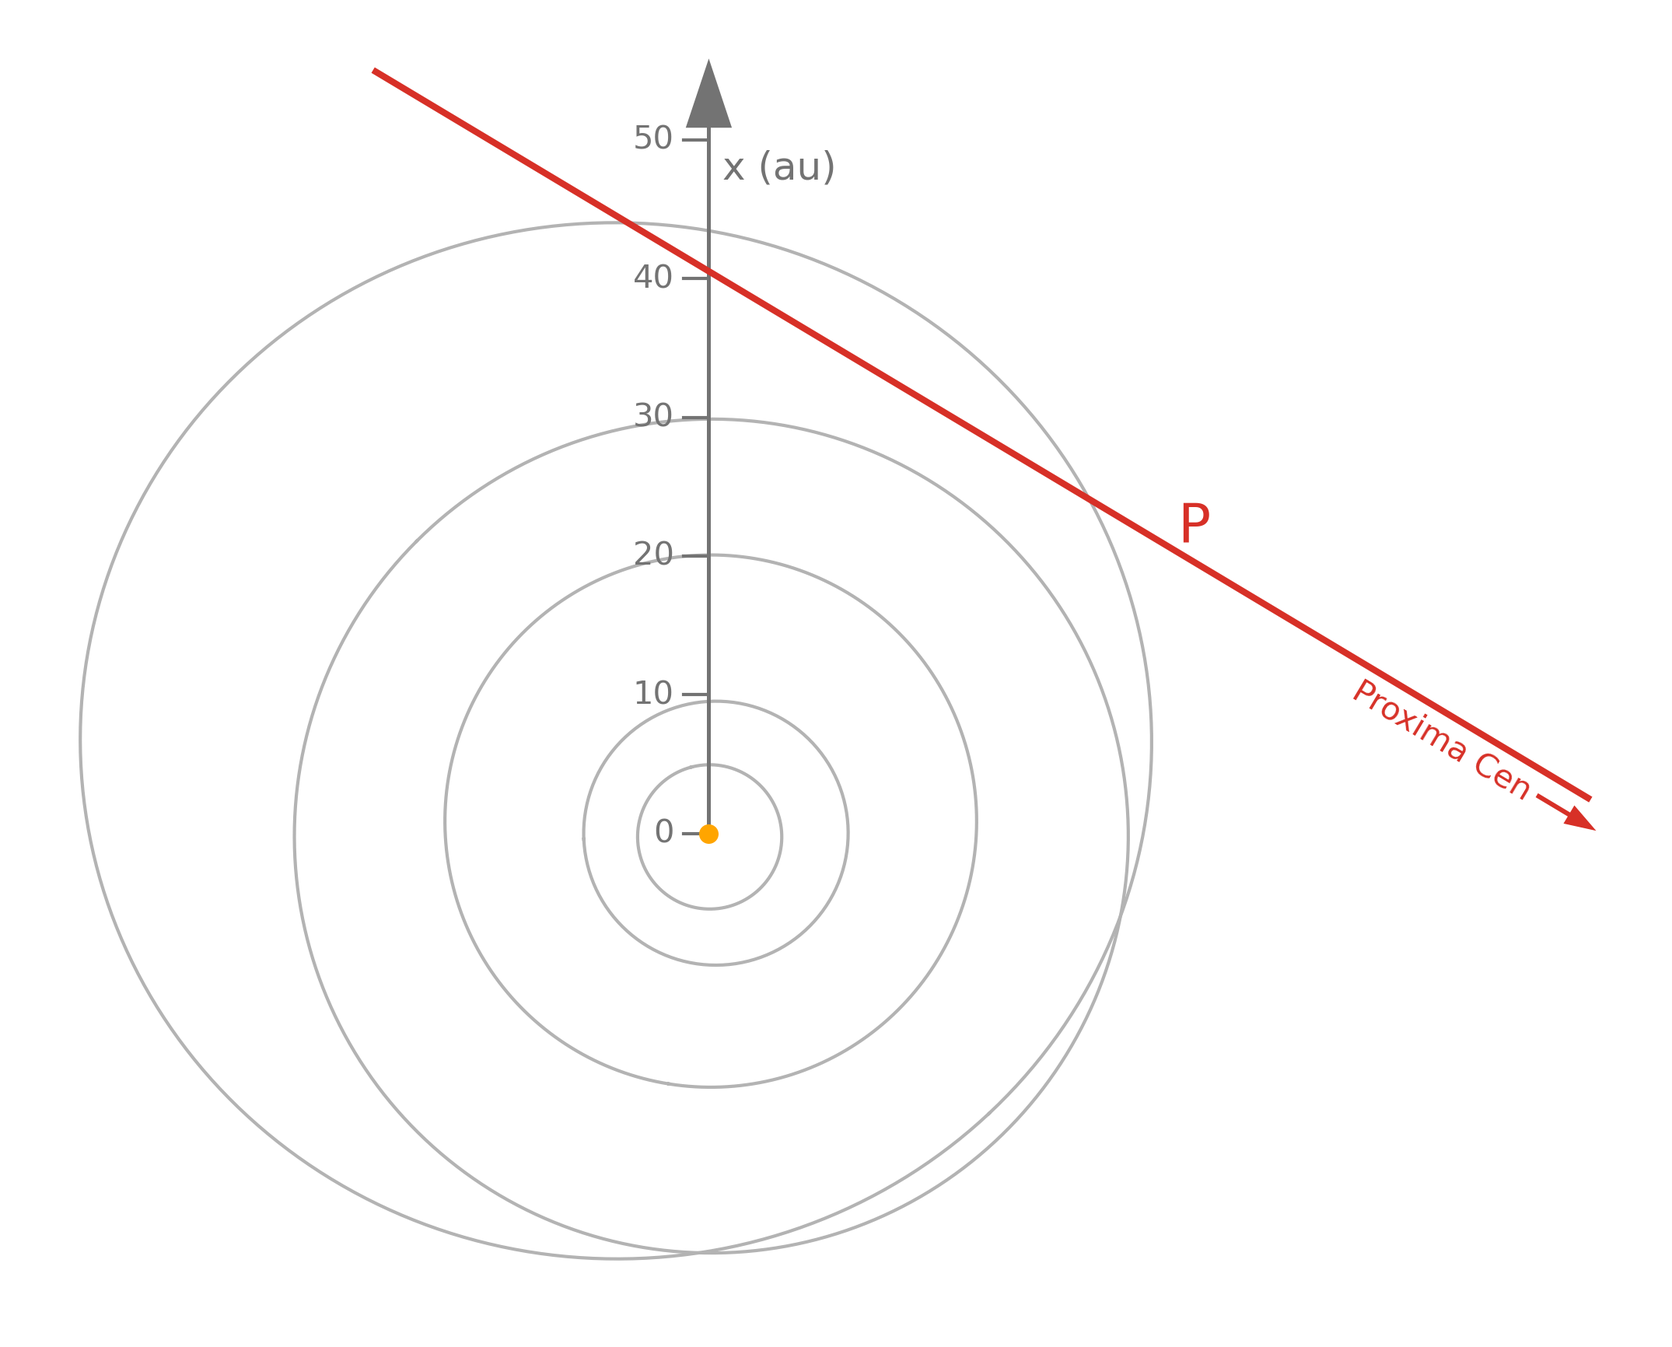
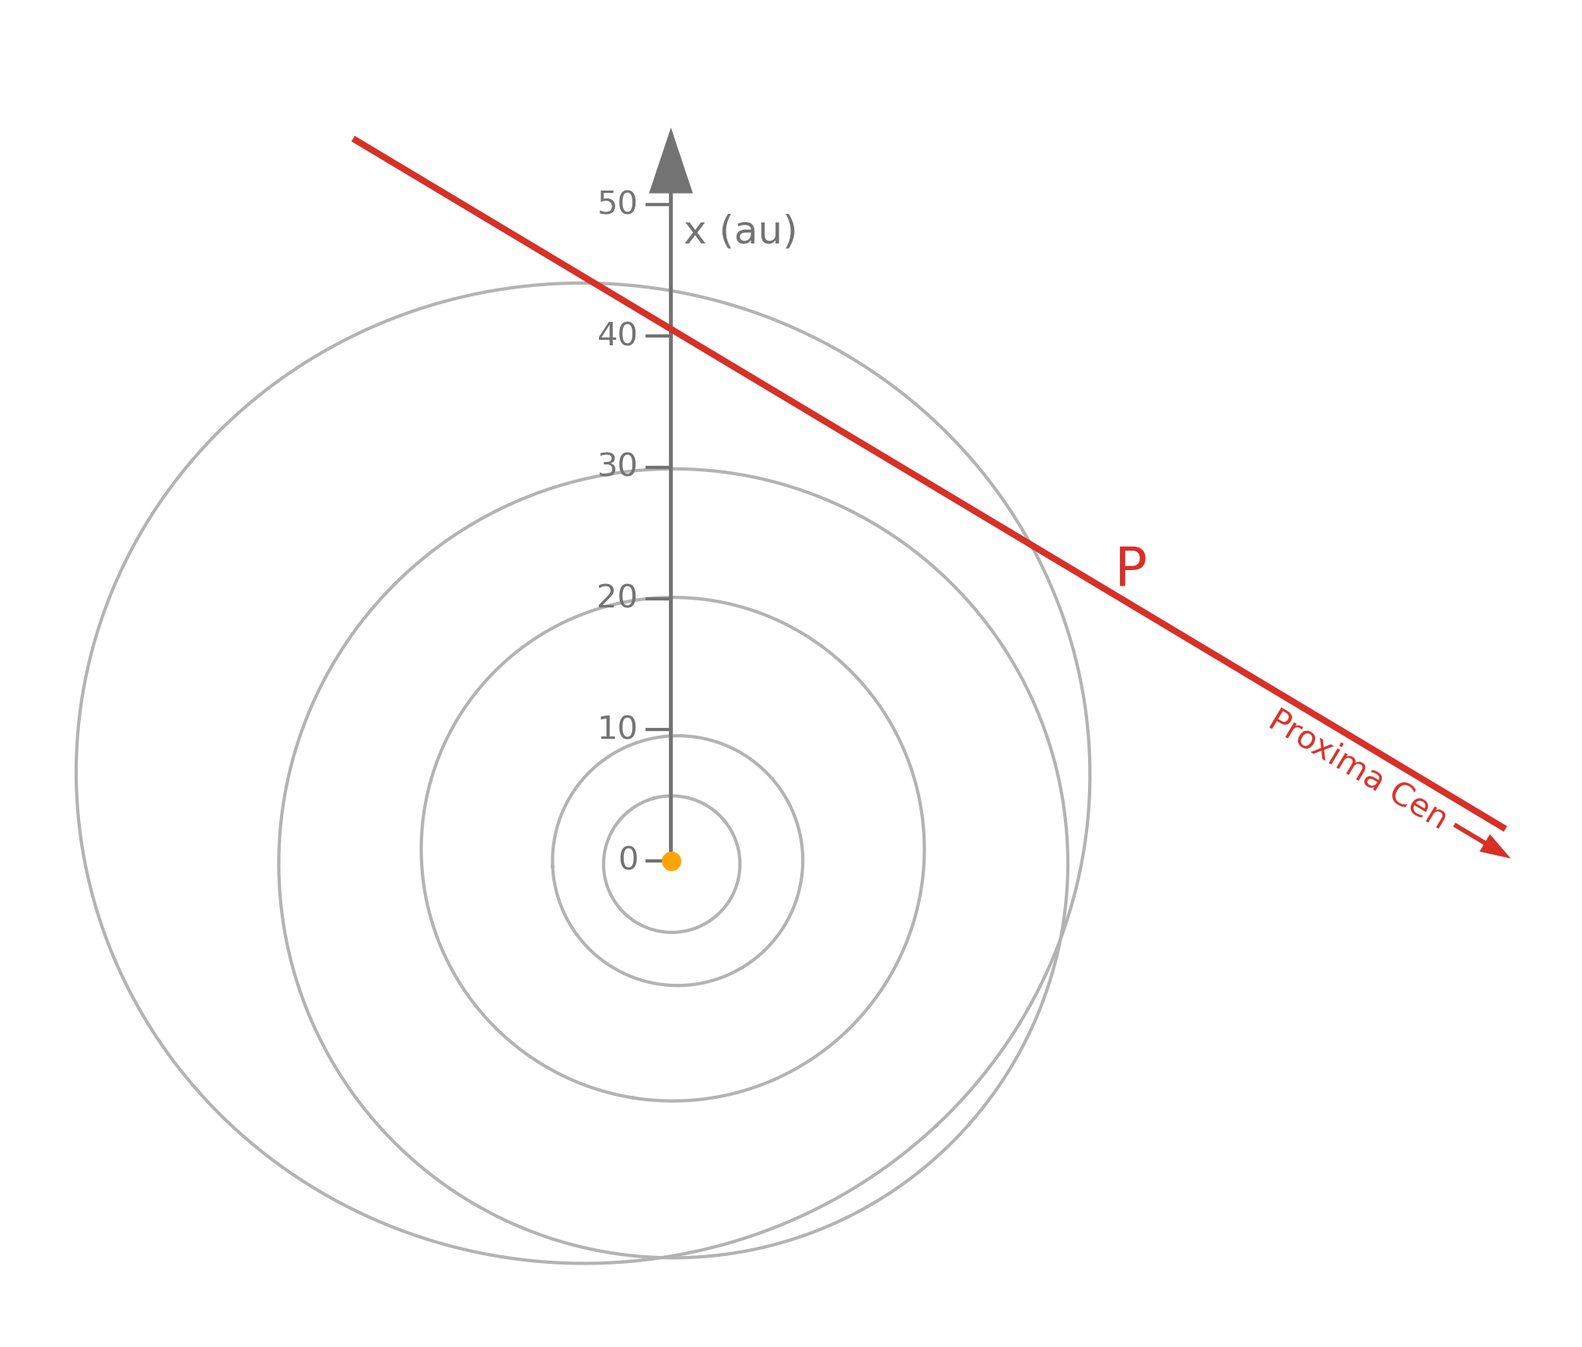
many edits, new cuts at figures, line2point.html rewritten

diff --git a/line2point.html b/line2point.html
@@ -20,6 +20,9 @@
   <script src="https://cdn.jsdelivr.net/npm/mathjax@3/es5/tex-chtml.js"
           id="MathJax-script">
   </script>
+  <script>
+    MathJax.texReset(3);  // Start equation numbering from 4.
+  </script>
   <style>
     div {
       -moz-box-sizing: border-box;
@@ -47,153 +50,158 @@
 
   <h2>Section 3.1.  The Navigation Methodology</h2>
 
-  <p>Consider first the general problem of determining the location of
-    a spacecraft which makes nearly simultaneous measurements of the
-    unit direction vectors $\bh{d}_k$ to $N$ stars.  If we also have
-    the SSB-based position vectors $\bv{p}_k$ of those stars derived
-    from the Gaia DR3 catalog, then each direction measurement
-    determines a line passing through $\bv{p}_k$ in direction
-    $\bh{d}_k.$  The spacecraft position vector $\bv{x}$ must be
-    the common intersection point of these $N$ lines.  Of course, in
-    practice, no two of these lines will exactly meet, owing to
-    measurement errors in the $\bh{d}_k$ or $\bv{p}_k.$  We want to
-    find the most likely position $\bv{x}$ consistent with these
-    measurement errors.</p>
+  <p>Fig.(3) diagrams the basic geometry of interstellar navigation.
+    We know with great precision the position vectors $\bv{p_k}$ of
+    nearby stars in three dimensions from the Gaia DR3 archive.
+    (We'll return to exactly how precise later.)  We measure the
+    apparent directions to those stars - unit vectors $\bh{d}_k$ -
+    from the vantage point of a spacecraft.  Each such measurement
+    constrains the sapcecraft to lie on the sight line in the
+    direction $\bh{d}_k$ passing through the point $\bv{p}_k,$
+    therefore measuring the directions to two or more stars constrains
+    the spacecraft to lie at the point where all these lines
+    intersect.</p>
 
-  <p>Define $\bv{Q}_k=\bv{I}-\bh{d}_k\bh{d}_k^T$ to be the $3\times 3$
-    projection matrix into the plane normal to $\bh{d}_k.$ Then
-    \begin{equation} \bv{u}_k = \bv{Q}_k(\bv{x} - \bv{p}_k)
-    \label{eq:udef}\end{equation}
-    is the perpendicular displacement of any point $\bv{x}$ from the
-    line determined by $\bh{d}_k$ and $\bv{p}_k.$ The length
-    $u_k=|\bv{u}_k|$ is the impact parameter of the line as it passes
-    $\bv{x}.$ If all the measurements were perfect, then all $N$ of
-    the $\bv{u}_k$ would be exactly zero, giving us an overdetermined
-    system of $3N$ equations for the three components of $\bv{x}.$
-    (Note, however, that since each $\bv{Q}_k$ is a projection into a
-    plane, only $2N$ of these equations are linearly independent, so
-    we need $N\ge 2$ to solve for $\bv{x}.$)</p>
+  <p>In practice, the lines will all be skew, and we are faced with
+    the more nebulous job of describing the position and shape of the
+    region of space where the spacecraft must be located in order to
+    be consistent with all our direction measurements.  Fig(3) hints
+    at this problem with dotted lines on either side of the star sight
+    lines showing the transverse displacements of the lines if our
+    direction measurements had differed by $1''$ of arc.  In fact, the
+    transverse displacement of each line in au is evidently
+    numerically equal to the distance to the corresponding star in pc!
+    We usually think of 1&nbsp;pc as the distance of a star for which
+    a 1&nbsp;au displacement of the observer changes its direction by
+    $1''$, but for navigation problems, we think of it as the distance
+    for which a $1''$ change in direction causes a 1&nbsp;au
+    transverse displacement of the sight line.  A parsec is an au per
+    arcsecond.  Of course, our actual angular errors are not $1''$ -
+    in fact, Fig.(3) shows we do much better - so the spacecraft must
+    actually be in a region with dimensions scaled by the ratio of our
+    actual angle errors to $1''.$</p>
 
-  <p>One very easy and symmetric way to solve for $\bv{x}$ is to
-    simply sum the $\bv{u}_k=0$ equations to get the
-    $\sum_k\bv{u}_k=0,$ which is a $3\times 3$ system of equations for
-    $\bv{x}.$ It turns out that solving this system gives the position
-    $\bv{x}$ with minimum RMS distance to the $N$ lines (hence the
-    common intersection point if all $N$ actually do meet).  However,
-    we wouldn't usually judge this to be the most <em>likely</em>
-    position $\bv{x}$ because our measurement errors will usually
-    constrain $\bv{x}$ to lie closer to some lines than to others.  In
-    order to find the most likely $\bv{x},$ we instead want to minimize
-    \begin{equation} \chi^2 = \sum_k \bv{u}_k^T\BL(\bv{u}_k)\bv{u}_k,
+  <figure>
+    <img src="./nhfig1.png" alt="figure 3" width="534" height="433" />
+    <figcaption><b>Figure 3.</b>The location of New Horizons on 2020
+      April 23 as derived from the directions to Proxima Cen and Wolf
+      359 measured from the spacecraft.  This is the view from the
+      ecliptic north pole; the vertical axis is at zero right
+      ascension and the origin is the solar system barycenter.  The
+      line P passes through the precise GAIA 3-D location of Proxima
+      Cen, in the direction measured from the spacecraft.  In other
+      words, the LORRI image of Proxima Cen constrains the spacecraft
+      to lie on line P. Similarly, the LORRI image of Wolf 359
+      constrains the spacecraft to lie on line W.  The adjacent faint
+      dotted lines show how much P and W would be displaced by a $1''$
+      change in line direction; the transverse displacement in au is
+      just the distance to the star in pc (1.30 for P, 2.41 for W).
+      The trajectory NH is the actual path of the spacecraft from
+      launch in 2006 through 2023, with ticks on January 1 each year.
+      Notice that our actual angular errors must be much less than the
+      $1''$ indicated by the dotted lines.  Proxima Cen is ∼$45^\circ$
+      south of the ecliptic, so line P tilts into the page at that
+      angle; Wolf 359 and the NH trajectory are within $2^\circ$ of
+      the ecliptic.
+    </figcaption>
+  </figure>
+
+  <p>The dotted lines in Fig.(3) actually represent the standard
+    deviation of cylindrical Gaussian probability clouds around the
+    lines P and W.  Our measurements constrain the spacecraft to the
+    ellipsoidal Gaussian probability cloud that is the product of the
+    individual cylindrical distributions - the error ellipsoid to
+    which our measurements constrain the spacecraft position.  You can
+    see the projected shape of this error ellipsoid in the
+    parallelogram where the dotted lines in Fig.(3) cross (scaled up
+    in size as if our angular errors were $1''$) - just picture the
+    ellipse inscribed in that parallelogram.  Given our measurements,
+    the center of this error ellipsoid is the most likely position of
+    our spacecraft, in other words our best guess at $\bv{x}$ given
+    the directions we measured.  The shape and size of the ellipsoid
+    are our estimate of the uncertainty in our determination of
+    $\bv{x}.$</p>
+
+  <p>If the actual spacecraft position is $\bv{x},$ then the actual
+    direction to star $k$ is $(\bv{x}-\bv{p}_k)/|\bv{x}-\bv{p}_k|.$
+    (These are the GAA+JPL entries in Table 2.)  Let $\delta\alpha_k$
+    be the angle between this and our measured direction $\bh{d}_k$ -
+    our measurement error.  Writing $p_k$ for $|\bv{p}_k|,$ then since
+    $\delta\alpha_k$ and $|\bv{x}|/p_k$ are both very small,
+    \begin{equation*} \delta\alpha_k =
+    |\bh{d}_k\cross(\bv{x}-\bv{p}_k)|/p_k,
+    \end{equation*}
+    which we rewrite as
+    \begin{equation} \delta\alpha_k^2 = \bigl(|\bv{x}-\bv{p}_k|^2 -
+    (\bh{d}_k\cdot(\bv{x}-\bv{p}_k))^2\bigr)/p_k^2.
+    \label{eq:alpha2}\end{equation}
+    If our measurements all have the same standard errors in angle,
+    say $\sigma_\alpha,$ then each cylindrical Gaussian cloud will be
+    $\exp(-\tfrac{1}{2}\delta\alpha_k^2/\sigma_\alpha^2),$ so the
+    combined ellipsoidal cloud will be $\exp(-\tfrac{1}{2}\chi^2),$
+    where
+    \begin{equation} \chi^2 = \sum_k\delta\alpha_k^2/\sigma_\alpha^2.
     \label{eq:chi2}\end{equation}
-    where $\BL(\bv{u}_k)$ is the inverse covariance matrix
-    characterizing our measurement errors (see any text on data
-    modeling[Numerical Recipes sec. 15.4]), and we assume that the
-    errors in the $N$ lines are statistically independent of one
-    another.</p>
+    The center of this cloud is where $\chi^2$ is minimum, which is a
+    perfectly well-defined point $\bv{x}$ even when the lines do not
+    exactly meet (that is, when $\chi^2$ never reaches zero).</p>
 
-  <p>To estimate the error in extracting the direction of a star from a
-    particular LORRI image is not easy, and the error will certainly
-    vary from image to image depending on the exact circumstances of
-    spacecraft residual slew rates, exposure times, the background
-    star field, and many other factors.  Many of these factors will
-    not be known until after the image has been made, so for the
-    purposes of planning a set of observations, a reasonable
-    assumption is that the error in $\bh{d}_k$ is simply some angle
-    $\sigma_d$ on the sky.  For a star at distance $p_k=|\bv{p}_k|$
-    this angular error will cause the line determined by $\bh{d}_k$
-    and $\bv{p}_k$ to be displaced by $p_k\sigma_d$.  In other words,
-    the standard deviation in either component of $\bv{u}_k$ caused by
-    our measurement error is $p_k\sigma_d,$ so that
-    \begin{equation} \chi^2 = (1/\sigma_d^2)\sum_k|\bv{u}_k|^2/p_k^2,
-    \label{eq:chi2a}\end{equation}
-    For a single LORRI image, experience has shown us that $\sigma_d$
-    is of order 200&nbsp;mas (1&nbsp;&micro;rad).  A single pixel is
-    4080&nbsp;mas, so this amounts to a twentieth of a pixel.  Note
-    that this is not a question of the resolution of the instrument,
-    but of how well one statistic - the centroid - can be determined
-    for something known to be a point source.  This is very much a
-    ballpark estimate, within perhaps a factor of two or three.</p>
-
-  <p>This $\chi^2$ is minimum when $\sum_k\bv{u}_k/p_k^2=0,$ or
+  <p>What we are describing here is the well-known minimum chi-squared
+    technique for finding the most likely parameters consistent with a
+    set of measurements.  Here, $\chi^2$ is quadratic in $\bv{x},$ so
+    setting its gradient to zero to find its minimum produces a simple
+    $3\times 3$ system of linear equations for $\bv{x}.$  The gradient
+    of Eq.(\ref{eq:alpha2}) is
+    \begin{align*}
+    \nabla\delta\alpha_k^2&= (2/p_k^2)\bigl((\bv{x}-\bv{p}_k)
+                   - \bh{d}_k\bh{d}_k\cdot(\bv{x}-\bv{p}_k)\bigr) \\
+                 &= (2/p_k^2)\bv{Q}_k(\bv{x}-\bv{p}_k),
+    \end{align*}
+    where we have defined $\bv{Q}_k=\bv{I}-\bh{d}_k\bh{d}_k^T$ as the
+    $3\times 3$ matrix which projects vectors into the plane
+    perpendicular to $\bh{d}_k.$  Setting $\nabla\chi^2=0$ and solving
+    for $\bv{x}$ gives
     \begin{equation} \bv{x} =
-        \bigl(\bv{V}(\bv{x})/\sigma_d^2\bigr)\sum_k\bv{Q}_k\bv{p}_k/p_k^2,
+        \BL^{-1}\sum_k\bv{Q}_k\bv{p}_k/p_k^2,
     \label{eq:x}\end{equation}
     where
-    \begin{equation} \bv{V}(\bv{x}) = \sigma_d^2
-        \bigl(\sum_k\bv{Q}_k/p_k^2\bigr)^{-1}
+    \begin{equation} \BL = \sum_k\bv{Q}_k/p_k^2.
+    \label{eq:xlambda}\end{equation}
+  </p>
+
+  <p>Eq.(\ref{eq:alpha2}) looks simpler when expressed in matrix
+    notation using the $\bv{Q}_k$ projection operator, so we can
+    rewrite Eq.(\ref{eq:chi2}) as
+    \begin{equation} \chi^2 = (1/\sigma_\alpha^2)
+           \sum_k(\bv{x}-\bv{p}_k)^T\bv{Q}_k(\bv{x}-\bv{p}_k)/p_k^2.
+    \label{eq:chi2a}\end{equation}
+
+    Now $\chi^2$ is just a quadratic in $\bv{x},$ and its second
+    degree terms are proportional to $x^T\sum_k\bv{Q}_k/p_k^2 x,$ or
+    $x^T\BL x.$ By construction, $\BL$ is a symmetric positive
+    definite $3\times 3$ matrix, so its eigenvalues are positive and
+    its eigenvectors form an orthogonal basis.  Since the ellipsoidal
+    probability distribution for $\bv{x}$ is
+    $\exp(-\tfrac{1}{2}\chi^2),$ those eigenvectors are the principal
+    axes of the error ellipsoid, and the corresponding eigenvalues are
+    the squares of its semi-axes.  Thus,
+
+    \begin{equation} \bv{V}_\bv{x} = \sigma_\alpha^2\BL^{-1}
+      = \sigma_\alpha^2\bigl(\sum_k\bv{Q}_k/p_k^2\bigr)^{-1}
     \label{eq:xcov}\end{equation}
-    is the covariance matrix for the errors we can expect in our
-    solution $\bv{x}.$[Numerical Recipes sec. 15.4]  That is,
-    we expect some components of $\bv{x}$ to be more accurately
-    determined than others by the specific stars we choose, and this
-    $\bv{V}(\bv{x})$ determines the associated error ellipsoid.</p>
+    is the covariance matrix for for our most likely spacecraft position
+    $\bv{x}$ given by Eq.(\ref{eq:x}).</p>
 
   <p>Eq.($\ref{eq:x}$) matches the formulas given in Kaplan [2011],
     with the $1/p_k^2$ providing the weights for the terms in the sum.
-    In particular, notice that if we had simply minimized
-    $\chi^2=\sum_k|\bv{u}_k|^2,$ then Eq.($\ref{eq:x}$) would have
-    been the simple $\sum_k\bv{u}_k=0$ solution mentioned above, which
-    minimizes the RMS distance of $\bv{x}$ from all the lines.  For
-    the $N=2$ case, notice that $\bv{x}$ will always lie on the line
-    segment connecting the points of closest approach of the two
-    lines, which is perpendicular to both lines.  (Projecting any
-    point not on the connecting line onto it, will reduce $\chi^2$
-    according to Eq.($\ref{eq:chi2a}$).)  In fact, $\bv{x}$ will
-    lie at the point dividing that connecting line segment in the
-    ratio $p_1^2:p_2^2,$ so that $\bv{x}$ will be closer to the line
-    to the nearer star.</p>
+    {More here.]</p>
 
-  <p>Unlike the situation for $\bh{d}_k,$ the Gaia DR3 catalog
-    provides extensive information about the detailed covariance
-    matrix $\bv{V}(\bv{p}_k)$ associated with each star position.
-    These errors are completely negligible compared to the LORRI
-    errors.  However, if New Horizons were much farther away, or if it
-    had a more accurate astrometry instrument, eventually the long
-    baseline would make the spacecraft direction measurements
-    competitive with Gaia for finding the distances to stars.  How
-    much better would our measurements need to be for that to
-    happen?</p>
-
-  <p>Ignoring all of the detailed information for error covariances of
-    individual stars in the Gaia catalog, we can treat the errors in
-    the Gaia data in a manner roughly analogous to our estimate of the
-    LORRI errors.  Thus, the Gaia error in angles on the sky are
-    similar for most stars, with a standard deviation $\sigma_p$ of
-    order 0.02&nbsp;mas (0.1&nbsp;nrad), while the errors in parallax
-    $\sigma_\pi$ are a bit larger.  For high proper motion stars like
-    Proxima Cen and Wolf 359, $\sigma_\pi$ is 0.05&nbsp;mas or
-    somewhat more, and the error $\sigma_p$ in angle on the sky grows
-    quite rapidly as the epoch moves away from the 2016 DR3 epoch.  In
-    the 4.3 years from 2016.0 to our April 2020 observations,
-    $\sigma_p$ has grown an order of magnitude, to roughly
-    1&nbsp;nrad.</p>
-
-  <p>Changing the direction $\bh{p}_k$ by $\sigma_p$ would change
-    $\bv{u}_k$ by $p_k\sigma_p.$ Changing the parallax by $\sigma_\pi$
-    causes a much larger error in the distance of $p_k\sigma_k/\pi,$
-    but only the small component of this perpendicular to $\bh{d}_k$
-    has any effect on $\bv{u}_k.$ Define
-    $\bv{e}_k=e_k\bh{e}_k=\bv{Q}_k\bh{p}_k,$ so that $e_k$ is the
-    small angle between the Gaia direction $\bh{p}_k$ and the measured
-    direction $\bh{d}_k$ from New Horizons.  Then changing the parallax
-    by $\sigma_\pi$ would change $\bv{u}_k$ by $p_ke_k\sigma_k/\pi$
-    in the direction $\bh{e}_k$ on the sky.  Including the LORRI
-    angular error $\sigma_d,$ the covariance matrix for $\bv{u}_k$
-    is roughly
-    \begin{equation} \bv{V}(\bv{u}_k) = p_k^2\bigl(\sigma_d^2\bv{Q}_k +
-        \sigma_p^2\bv{Q}_k + (e_k\sigma_\pi/\pi)^2\bh{e}_k\bh{e}_k^T\bigr).
-    \label{eq:ucov2}\end{equation}
-    The $\BL(\bv{u}_k)$ for Eq.($\ref{eq:chi2}$) is the pseudo-inverse
-    of this covariance $\bv{V}(\bv{u}_k),$ that is,
-    $\BL(\bv{u}_k)\bv{V}(\bv{u}_k)=\bv{Q}_k.$ For our case,
-    $e_k\sigma_\pi/\pi$ is of order 2&nbsp;mas (10&nbsp;nrad).  Hence,
-    the ratio of the standard deviations
-    $\sigma_d:\sigma_p:e_k\sigma_\pi/\pi$ in the three terms of
-    Eq.($\ref{eq:ucov2}$) is roughly $1000:1:10.$  This justifies
-    ignoring the Gaia terms earlier, and shows how much improvement
-    in the direction measurements from the spacecraft would be
-    required before the Gaia errors came into play.</p>
+  <p>Eq.(5) for the covariance matrix is basically the harmonic mean
+    of the $p_k^2,$ with the $\bv{Q}_k$ allowing for the angles
+    among the directions to the stars.  Notice that if the $p_k$ are
+    in units of pc and $\sigma_d$ is in seconds of arc, then
+    $p_k\sigma_d$ will have units of au.
+  </p>
 
 <hr/><hr/>
 

diff --git a/nhparaplots.py b/nhparaplots.py
@@ -320,14 +320,16 @@ nh_ticks = (1. - tickf)*nh_ticks[..., ticki] + tickf*nh_ticks[..., ticki+1]
 # date.  Proxima Cen is about 45 degrees south of the ecliptic, so the
 # P ray is pointing into the page at that angle.  Wolf 359 is nearly in
 # the ecliptic plane, and the spacecraft is within 2 degrees.
-def fig1(prog=3, save=False, name="nhfig1.png", dpi=300):
+def fig1(prog=4, save=False, name="nhfig1.png", dpi=300):
     fig_1 = figure(1)
     clf()
     fig_1.set_figwidth(9.77)
     fig_1.set_figheight(7.45)
     fig_1.set_dpi(100.)
     axes(aspect="equal").set_axis_off()
-    # axis((-50.768, 69.110, -36.685, None))  does weird stuff here
+    # axis() -> (-50.768, 69.11, -36.685, 60.451)
+    plot(-50.768, 60.451, ".w", ms=0.01)  # force savefig to not crop so all
+    plot(69.110, -36.685, ".w", ms=0.01)  # prog values give same png size
     plot(*vernal_up(jup_xyz), c="0.7", lw=1)
     plot(*vernal_up(sat_xyz), c="0.7", lw=1)
     plot(*vernal_up(ura_xyz), c="0.7", lw=1)
@@ -345,12 +347,27 @@ def fig1(prog=3, save=False, name="nhfig1.png", dpi=300):
         px, py = vernal_up(nh_xyz[:, -1])
         text(px+1, py, "NH", size="large", va="center", ha="left", c="k")
     plot(0, 0, "o", ms=5, c="orange")
+    if prog > 3:
+        # Note that prox_d and wolf_d do not have vernal_up applied,
+        # so they are perpendicular to seg_prox and seg_wolf
+        perp = prox_d[:2]
+        perp /= sqrt(sum(perp**2))
+        xp, yp = perp * rprox * (pi / 180. / 3600.)  # 1 arcsec displacement
+        x, y = seg_prox
+        plot(x+xp, y+yp, c="#d73027", lw=0.75, dashes=[0.75, 2])
+        plot(x-xp, y-yp, c="#d73027", lw=0.75, dashes=[0.75, 2])
+        perp = wolf_d[:2]
+        perp /= sqrt(sum(perp**2))
+        xp, yp = perp * rwolf * (pi / 180. / 3600.)  # 1 arcsec displacement
+        x, y = seg_wolf
+        plot(x+xp, y+yp, c="#4575b4", lw=0.75, dashes=[0.75, 2])
+        plot(x-xp, y-yp, c="#4575b4", lw=0.75, dashes=[0.75, 2])
     if prog > 0:
         plot(*seg_prox, c="#d73027")
         text(35, 22.2, "P", size="large", va="center", ha="center",
              c="#d73027")
         ang = arctan2(*(prox_d[:2]*[1, -1])) * 180./pi
-        text(46, 2.5, "Proxima Cen", size=10, c="#d73027", rotation=ang)
+        text(45.1, 2.5, "Proxima Cen", size=10, c="#d73027", rotation=ang)
         c, s = cos(ang * pi/180.), sin(ang * pi/180.)
         arrow(59.8, 2.7, 2.7*c, 2.7*s, width=0.1, head_width=1.2,
               color="#d73027")
@@ -359,15 +376,15 @@ def fig1(prog=3, save=False, name="nhfig1.png", dpi=300):
         text(46.2, 27, "W", size="large", va="center", ha="center",
              c="#4575b4")
         ang = arctan2(*(wolf_d[:2]*[-1, 1])) * 180./pi
-        text(33.1, -27.3, "Wolf 359", size=10, c="#4575b4", rotation=ang)
+        text(32.9, -27.3, "Wolf 359", size=10, c="#4575b4", rotation=ang)
         c, s = -cos(ang * pi/180.), -sin(ang * pi/180.)
         arrow(33.5, -28, 2.7*c, 2.7*s, width=0.1, head_width=1.2,
               color="#4575b4")
     if prog > 1:
-        text(12, 52, "New Horizons 2020-04-23", size=14, c="k")
+        text(8, 52, "New Horizons 2020-04-23", size=14, c="k")
     axis((-50.768, 69.110, -36.685, None))
     if save:
-        if prog < 3:
+        if prog < 4:
             name = name.split(".")
             name = ".".join([name[0] + "-{}".format(prog), name[1]])
         savefig(name, dpi=dpi, facecolor="w")
@@ -462,7 +479,7 @@ def fig2(save=False, draw=False,  name="nhfig2.png", dpi=300):
         nh = array([x0, y0])
         ax.plot(*ticks, c="k", lw=0.75)
         ax.plot(*xy, c="k")
-        ax.plot(*(xytk + nh[:, None]), c="k")
+        # ax.plot(*(xytk + nh[:, None]), c="k")
         ax.plot(*nh, "o", ms=5, c="k")
         # gray dashed shortest distance line between P and W
         p0, p1 = los_dot, matmul(rot, _0-q)
